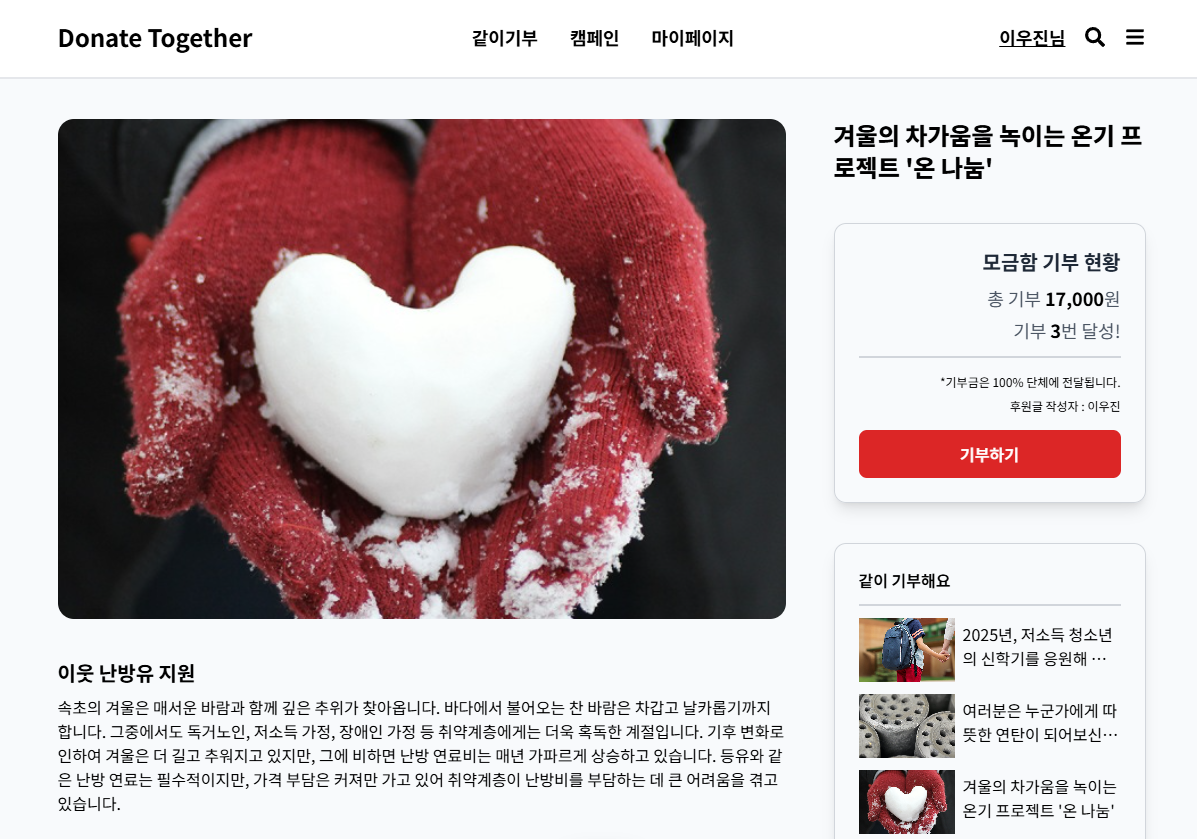
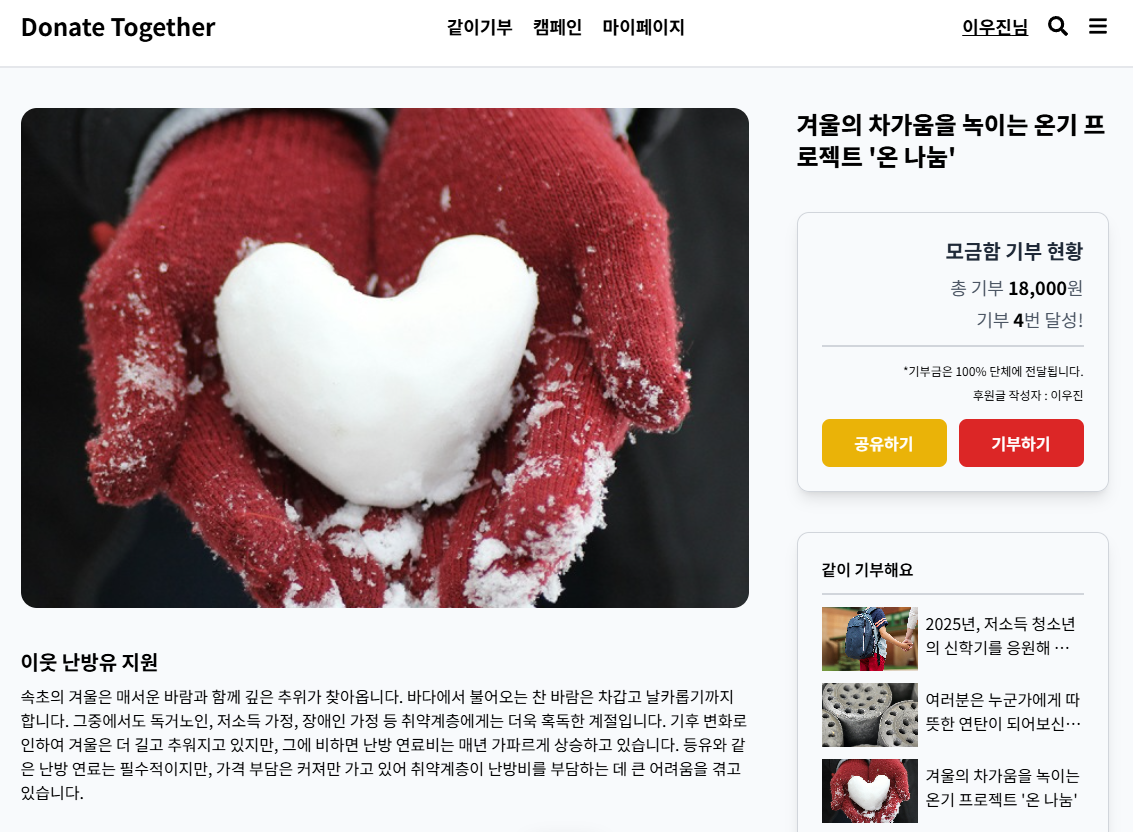
카카오톡 공유하기 추가

diff --git a/woojin/woojin-portfolio/src/components/modules/DonateTogether.jsx b/woojin/woojin-portfolio/src/components/modules/DonateTogether.jsx
@@ -116,14 +116,21 @@ function DonateTogether(props) {
                       alt="donationList"
                     />
                   </li>
+                  <li>
+                    <img
+                      src="/images/donateTogether/share.png"
+                      alt="share"
+                    />
+                  </li>
                 </ul>
               </div>
               <div className="col-5 dt-desc">
-                <p>기부 글 / 기부하기 / 기부 내역</p>
+                <p>기부 글 / 기부하기 / 기부 내역 / 카카오톡 공유</p>
                 <ul>
                   <li>해당 글에서 기부 현황 표시</li>
                   <li>기부 금액, 응원글 작성시 기부 성공</li>
                   <li>하단에 회원별 기부 내역 구현</li>
+                  <li>카카오톡 공유하기 구현</li>
                 </ul>
               </div>
             </div>
